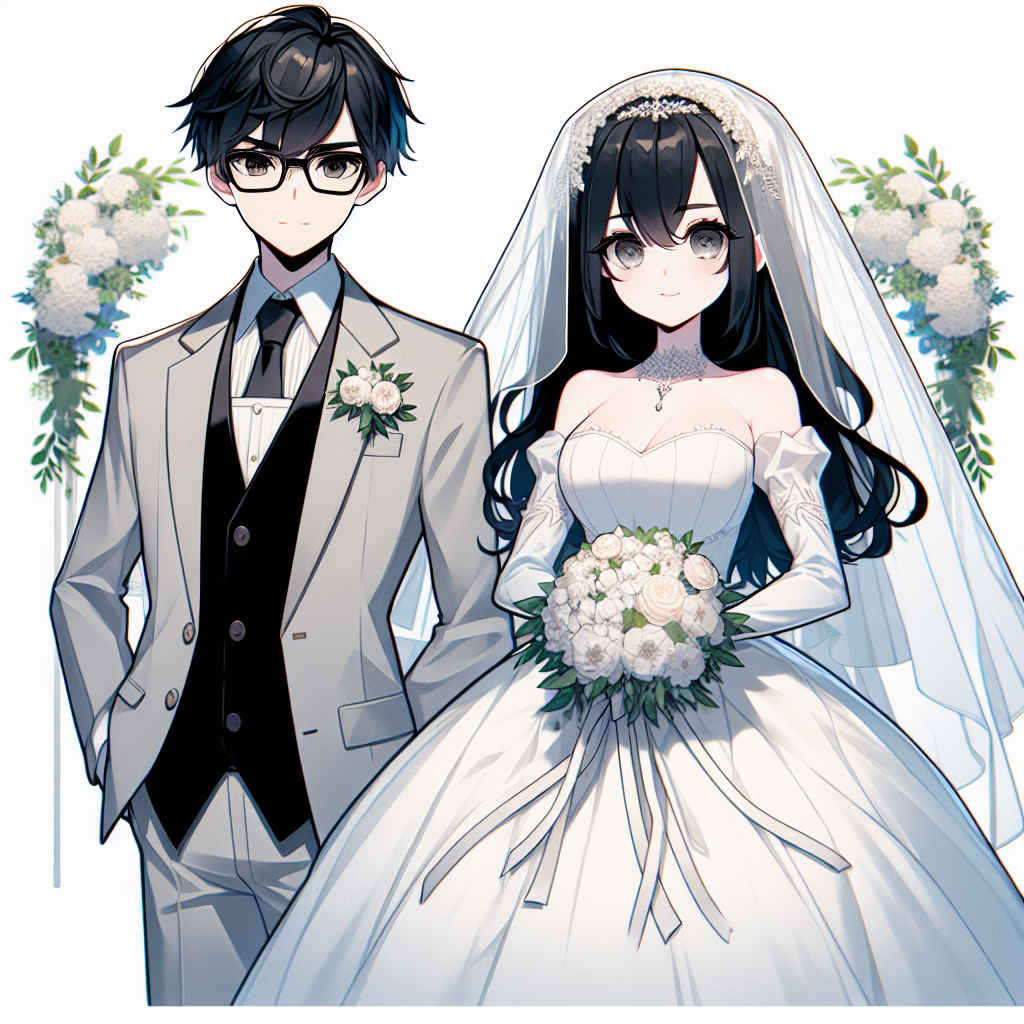
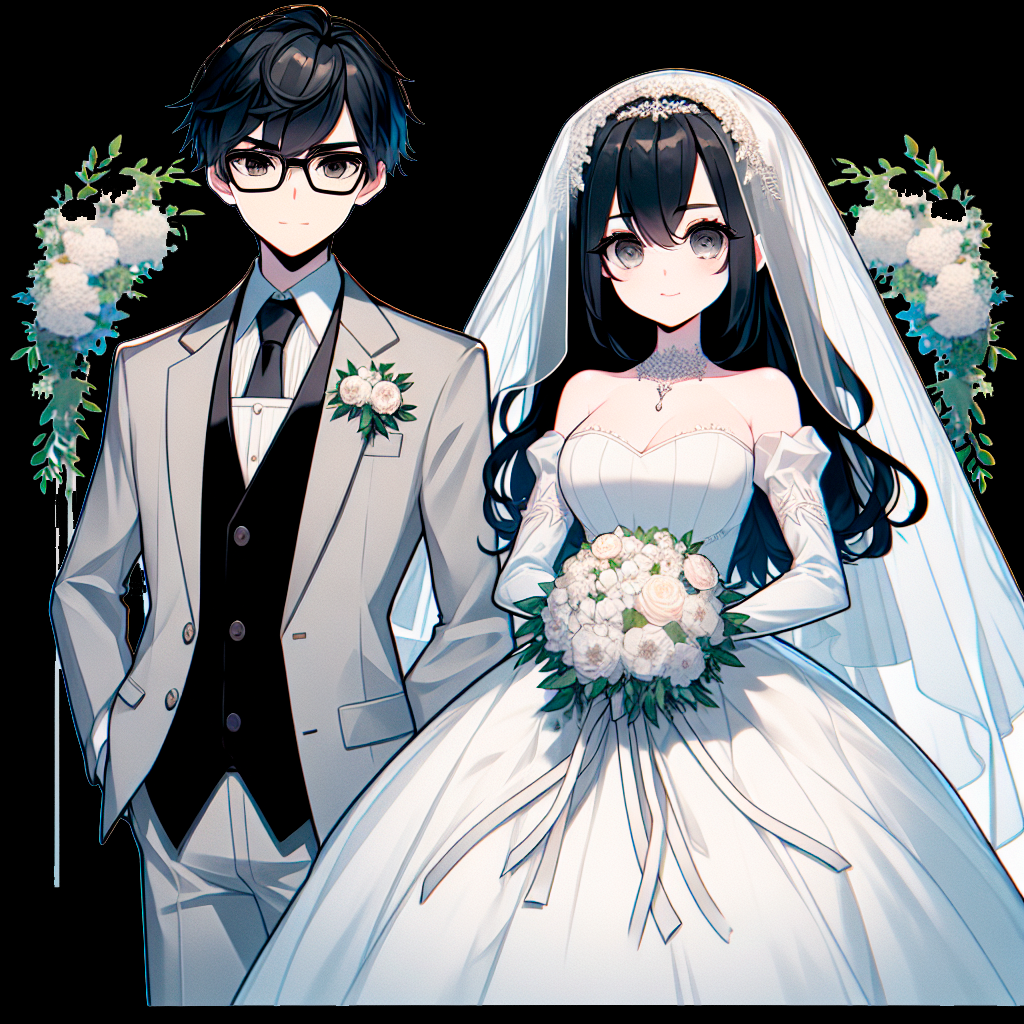
Agregar novios en transparente

diff --git a/index.html b/index.html
@@ -45,13 +45,12 @@
 	<header class="w-full h-screen flex flex-col items-center justify-center gap-4 p-4 overflow-hidden">
 		<img class="eucalyptus w-60 absolute top-0 self-end" style="z-index: -10;" src="./resources/eucalyptus.webp"
 			alt="eucalyptus" />
-		<q class="dancing-script-400 text-2xl text-center max-w-screen-sm" style="color:#CFB53B">
+		<q class="dancing-script-700 text-2xl text-center max-w-screen-sm" style="color:#CFB53B">
 			Más valen dos que uno, porque obtienen más fruto de su esfuerzo.
 			¡Ay del que cae y no tiene quien lo levante!
 		</q>
 		<p class="text-sm opacity-50">Eclesiastés 4:9-10</p>
 		<img class="header__logo w-72 -my-16" src="./resources/Wedding-rings.webp" alt="Wedding rings" />
-		<img class="header__logo w-20" src="./resources/code_civil.svg" alt="Code civil engineering" />
 		<p class="font-bold text-xl">Nuestar boda civil</p>
 		<div id="countdown" class="flex flex-row gap-4"></div>
 	</header>
